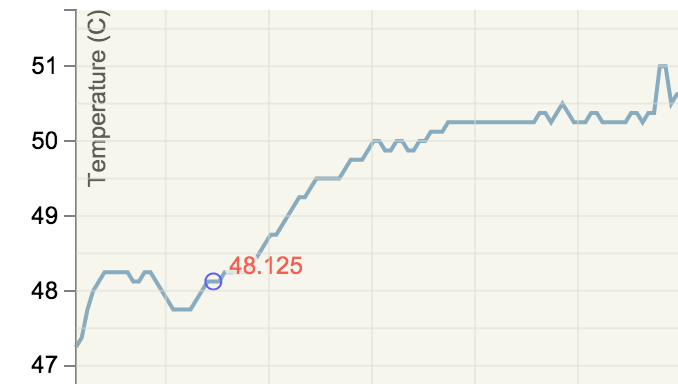
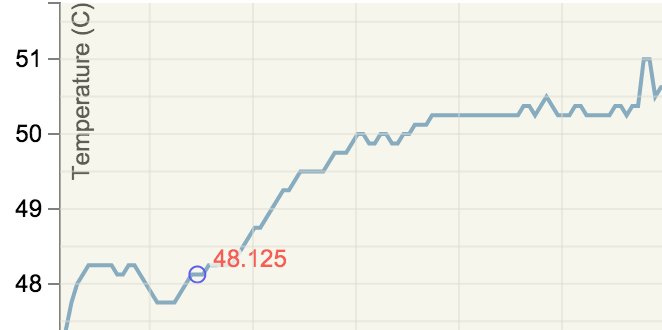
Resize Me

Changed region(s): [[0.0, 0.0, 0.2719, 1.0], [0.2417, 0.1515, 1.0, 0.8788], [0.1511, 0.697, 0.2417, 0.7576]]

diff --git a/index.html b/index.html
@@ -18,8 +18,8 @@
         <h1>erin mcmahon</h1>
         <p></p>
 
-        <p class "view"><a href="https://github.com/emcmahon013">resume in vis:<img src="/assets/index/resvis.png" hr width="95%" hr height="20%" alt="resvis"></a>
-        <a href="https://github.com/emcmahon013">data vis+:<img src="/assets/index/datavis.png" alt="datavis" hr width="95%" hr height="65%"></a></p>
+        <p class "view"><a href="https://github.com/emcmahon013">resume in vis:<img src="/assets/index/resvis.png" alt="resvis"></a>
+        <a href="https://github.com/emcmahon013">data vis+:<img src="/assets/index/datavis.png" alt="datavis"></a></p>
       </header>
       <section>
 
